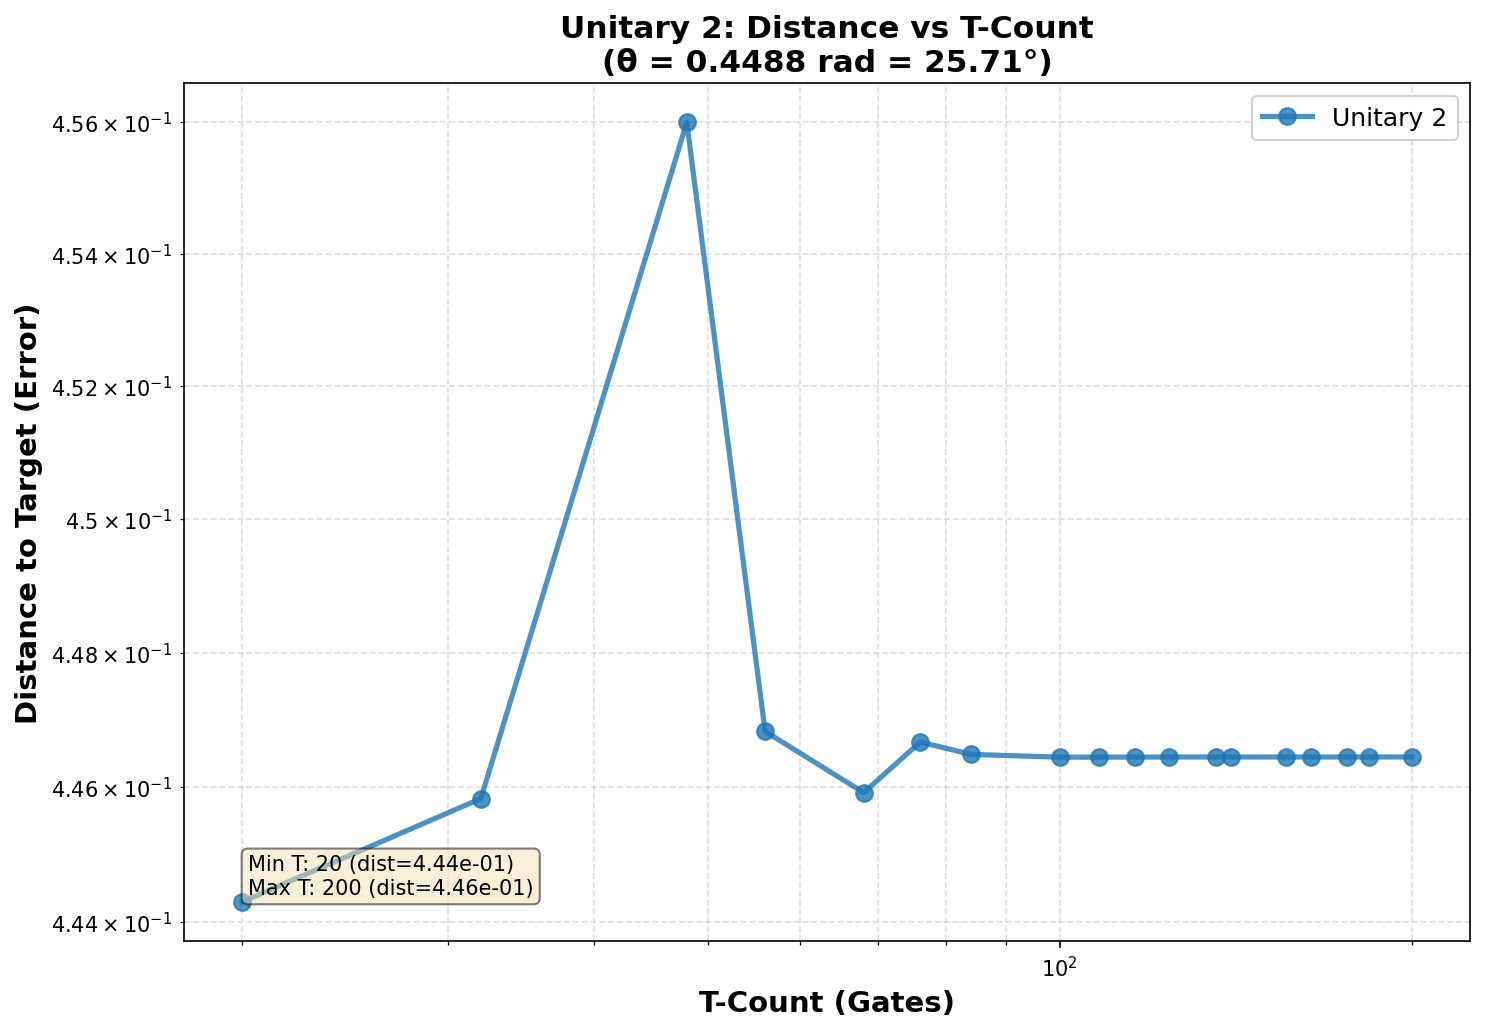
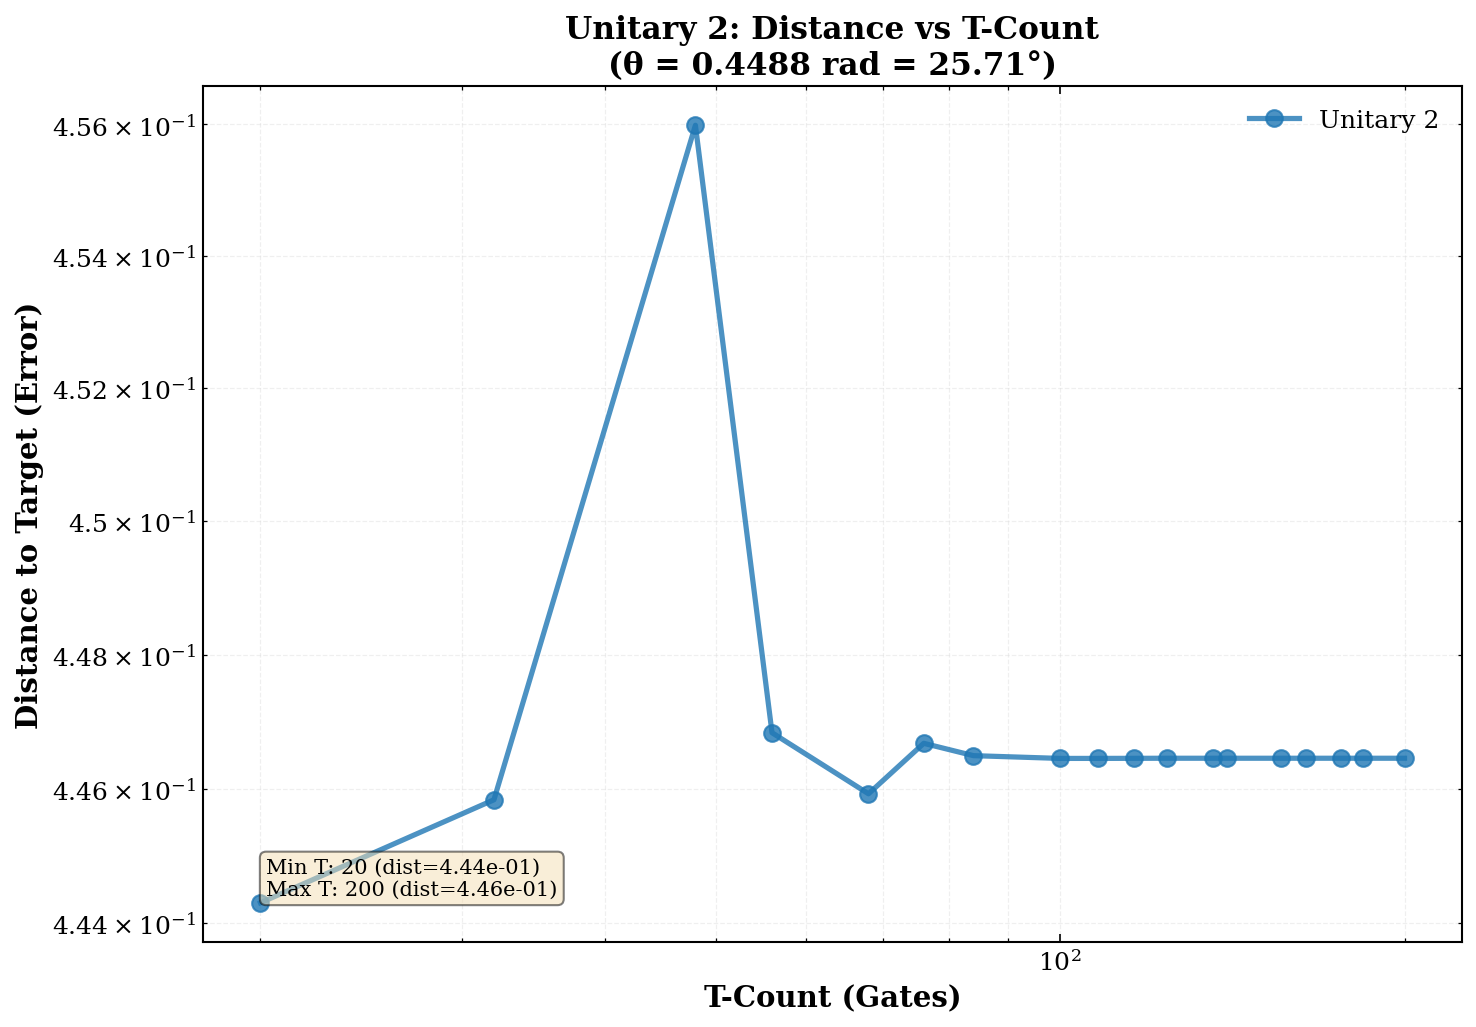
updated plot

diff --git a/unitary/plot.py b/unitary/plot.py
@@ -10,6 +10,8 @@ from utils import Ry, Rz
 from test import count_t_gates_manual, distance_global_phase, expected as EXPECTED_DICT
 from unitary7 import generate_candidates, optimize_candidate_ops
 
+from plot10 import apply_scientific_style
+
 def smart_rz(qc, angle, eps, qubit, use_exact=True):
     """
     Intelligently choose between exact T/S gates and synthesized Rz.
@@ -208,6 +210,9 @@ def run_plot(unitary_ids, theta, show_individual=True, show_combined=False):
         show_individual: If True, create individual plots for each construction
         show_combined: If True, create a combined comparison plot (deprecated)
     """
+    # Apply scientific plotting style
+    apply_scientific_style()
+    
     # Wide epsilon range to explore the full tradeoff curve
     epsilons = [10**(-i/2) for i in range(2, 20)]  # More granular range
     
@@ -368,7 +373,7 @@ def run_plot(unitary_ids, theta, show_individual=True, show_combined=False):
 if __name__ == "__main__":
     # List all constructions you want to investigate
     # Unitaries 5, 8, 9 don't use theta parameter (fixed constructions)
-    constructions_to_analyze = [11]
+    constructions_to_analyze = [2]
     
     theta_value = math.pi / 7
     
